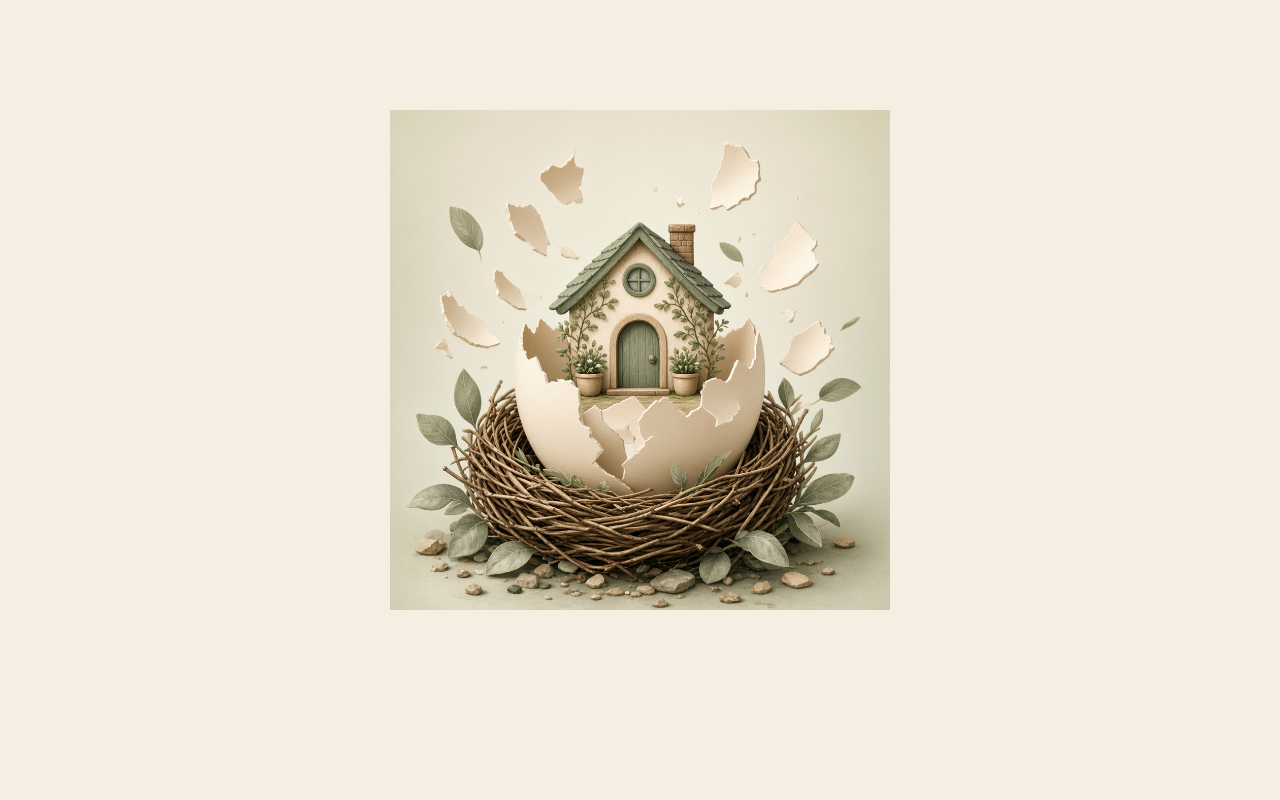
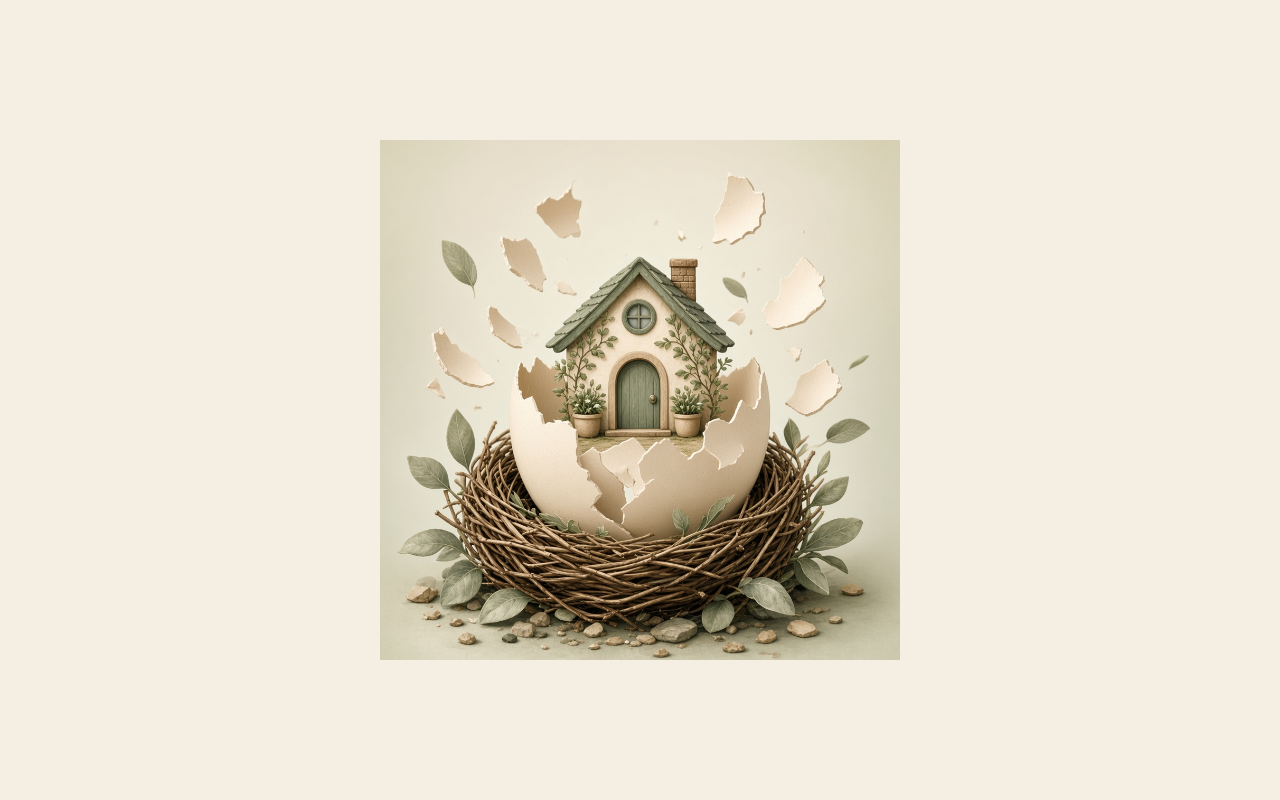
Tighten the hatch to Frank’s ~5s reference clip
Opening still now shows small Nestor / Home, held gently. Add a lid-split
frame before the fragments, then lock the greeting under the serif Nestor
mark. Still silent.

Changed region(s): [[0.2812, 0.125, 0.7188, 0.8438], [0.625, 0.3125, 0.6562, 0.4062]]

diff --git a/src/dashboard/cards/HatchShowpiece.tsx b/src/dashboard/cards/HatchShowpiece.tsx
@@ -7,14 +7,14 @@ import { colors, serif, type } from '../../theme';
 
 const nativeDriver = Platform.OS !== 'web';
 
-/** Motion follows Frank’s ~5s reference; dwell after that is BRANDING_SHOWPIECE_MS. */
+/** ~5s motion, matching Frank’s reference clip. Visual only — no audio. */
 const TIMING = {
-  startIn: 600,
-  startHold: 700,
-  shatterIn: 1200,
-  revealedIn: 1200,
-  markIn: 800,
-  greetingIn: 700,
+  openIn: 500,
+  openHold: 700,
+  crackIn: 900,
+  shatterIn: 1100,
+  revealIn: 1000,
+  lockupIn: 700,
 } as const;
 
 function fade(value: Animated.Value, toValue: number, duration: number) {
@@ -32,22 +32,22 @@ type Props = {
 
 export function HatchShowpiece({ frame = null }: Props) {
   const start = useRef(new Animated.Value(0)).current;
+  const crack = useRef(new Animated.Value(0)).current;
   const shatter = useRef(new Animated.Value(0)).current;
   const revealed = useRef(new Animated.Value(0)).current;
   const zoom = useRef(new Animated.Value(1)).current;
-  const tagline = useRef(new Animated.Value(0)).current;
-  const mark = useRef(new Animated.Value(0)).current;
-  const greeting = useRef(new Animated.Value(0)).current;
+  const openingCopy = useRef(new Animated.Value(0)).current;
+  const lockup = useRef(new Animated.Value(0)).current;
 
   useEffect(() => {
     const freeze = (stage: ShowpieceFrame) => {
       start.setValue(1);
+      crack.setValue(stage === 'hatch' || stage === 'house' ? 1 : 0);
       shatter.setValue(stage === 'hatch' || stage === 'house' ? 1 : 0);
       revealed.setValue(stage === 'house' ? 1 : 0);
       zoom.setValue(stage === 'hatch' ? 1.04 : stage === 'house' ? 1.08 : 1);
-      tagline.setValue(stage === 'egg' ? 1 : 0);
-      mark.setValue(stage === 'house' ? 1 : 0);
-      greeting.setValue(stage === 'house' ? 1 : 0);
+      openingCopy.setValue(stage === 'nest' || stage === 'egg' ? 1 : 0);
+      lockup.setValue(stage === 'house' ? 1 : 0);
     };
 
     if (frame) {
@@ -56,36 +56,40 @@ export function HatchShowpiece({ frame = null }: Props) {
     }
 
     start.setValue(0);
+    crack.setValue(0);
     shatter.setValue(0);
     revealed.setValue(0);
     zoom.setValue(1);
-    tagline.setValue(0);
-    mark.setValue(0);
-    greeting.setValue(0);
+    openingCopy.setValue(0);
+    lockup.setValue(0);
 
     const animation = Animated.sequence([
-      Animated.parallel([fade(start, 1, TIMING.startIn), fade(tagline, 1, TIMING.startIn)]),
-      Animated.delay(TIMING.startHold),
-      Animated.parallel([fade(shatter, 1, TIMING.shatterIn), fade(zoom, 1.04, TIMING.shatterIn)]),
+      Animated.parallel([fade(start, 1, TIMING.openIn), fade(openingCopy, 1, TIMING.openIn)]),
+      Animated.delay(TIMING.openHold),
+      Animated.parallel([fade(crack, 1, TIMING.crackIn), fade(zoom, 1.03, TIMING.crackIn)]),
+      Animated.parallel([fade(shatter, 1, TIMING.shatterIn), fade(zoom, 1.06, TIMING.shatterIn)]),
       Animated.parallel([
-        fade(revealed, 1, TIMING.revealedIn),
-        fade(zoom, 1.08, TIMING.revealedIn),
-        fade(tagline, 0, TIMING.markIn),
-        fade(mark, 1, TIMING.markIn),
+        fade(revealed, 1, TIMING.revealIn),
+        fade(zoom, 1.08, TIMING.revealIn),
+        fade(openingCopy, 0, TIMING.lockupIn),
+        fade(lockup, 1, TIMING.lockupIn),
       ]),
-      fade(greeting, 1, TIMING.greetingIn),
     ]);
 
     animation.start();
     return () => animation.stop();
-  }, [frame, greeting, mark, revealed, shatter, start, tagline, zoom]);
+  }, [crack, frame, lockup, openingCopy, revealed, shatter, start, zoom]);
 
   return (
     <View style={styles.wrap} testID="nestor-card-showpiece" accessibilityLabel={SHOWPIECE_GREETING}>
-      <Animated.Text style={[styles.mark, { opacity: mark }]}>{SHOWPIECE_MARK}</Animated.Text>
+      <Animated.View style={[styles.lockup, { opacity: lockup }]} pointerEvents="none">
+        <Animated.Text style={styles.mark}>{SHOWPIECE_MARK}</Animated.Text>
+        <Animated.Text style={styles.greeting}>{SHOWPIECE_GREETING}</Animated.Text>
+      </Animated.View>
       <View style={styles.stageClip}>
         <Animated.View style={[styles.stage, { transform: [{ scale: zoom }] }]}>
           <Animated.Image source={brandingImages.hatchStart} style={[styles.art, { opacity: start }]} resizeMode="contain" />
+          <Animated.Image source={brandingImages.hatchCrack} style={[styles.art, { opacity: crack }]} resizeMode="contain" />
           <Animated.Image
             source={brandingImages.hatchShatter}
             style={[styles.art, { opacity: shatter }]}
@@ -98,10 +102,10 @@ export function HatchShowpiece({ frame = null }: Props) {
           />
         </Animated.View>
       </View>
-      <View style={styles.footer}>
-        <Animated.Text style={[styles.tagline, { opacity: tagline }]}>{SHOWPIECE_TAGLINE}</Animated.Text>
-        <Animated.Text style={[styles.greeting, { opacity: greeting }]}>{SHOWPIECE_GREETING}</Animated.Text>
-      </View>
+      <Animated.View style={[styles.opening, { opacity: openingCopy }]} pointerEvents="none">
+        <Animated.Text style={styles.smallMark}>{SHOWPIECE_MARK}</Animated.Text>
+        <Animated.Text style={styles.tagline}>{SHOWPIECE_TAGLINE}</Animated.Text>
+      </Animated.View>
     </View>
   );
 }
@@ -114,24 +118,36 @@ const styles = StyleSheet.create({
     backgroundColor: colors.cream,
     paddingHorizontal: 36,
   },
-  mark: {
+  lockup: {
     position: 'absolute',
-    top: 18,
-    left: 0,
-    right: 0,
+    top: 16,
+    left: 24,
+    right: 24,
     zIndex: 2,
-    textAlign: 'center',
+    alignItems: 'center',
+  },
+  mark: {
     color: colors.bark,
     fontSize: type.serifMark,
     fontWeight: '700',
     letterSpacing: 0.4,
+    textAlign: 'center',
+    ...serif,
+  },
+  greeting: {
+    color: colors.bark,
+    fontSize: type.greeting,
+    fontWeight: '400',
+    letterSpacing: 0.2,
+    textAlign: 'center',
+    marginTop: 4,
     ...serif,
   },
   stageClip: {
-    width: 500,
-    height: 500,
-    maxWidth: '52%',
-    maxHeight: '64%',
+    width: 520,
+    height: 520,
+    maxWidth: '54%',
+    maxHeight: '66%',
     overflow: 'hidden',
   },
   stage: {
@@ -147,29 +163,27 @@ const styles = StyleSheet.create({
     width: '100%',
     height: '100%',
   },
-  footer: {
-    height: 72,
-    width: '100%',
-    maxWidth: 760,
+  opening: {
+    position: 'absolute',
+    bottom: 22,
+    left: 24,
+    right: 24,
     alignItems: 'center',
-    justifyContent: 'center',
-    marginTop: 8,
   },
-  tagline: {
-    position: 'absolute',
-    color: colors.mutedNest,
-    fontSize: 20,
-    fontWeight: '600',
-    letterSpacing: 0.3,
-    textAlign: 'center',
-  },
-  greeting: {
-    position: 'absolute',
+  smallMark: {
     color: colors.bark,
-    fontSize: type.greeting,
-    fontWeight: '400',
+    fontSize: 28,
+    fontWeight: '700',
     letterSpacing: 0.3,
     textAlign: 'center',
     ...serif,
+  },
+  tagline: {
+    color: colors.mutedNest,
+    fontSize: 18,
+    fontWeight: '600',
+    letterSpacing: 0.3,
+    textAlign: 'center',
+    marginTop: 2,
   },
 });

diff --git a/src/preview.ts b/src/preview.ts
@@ -9,10 +9,10 @@ import { BRANDING_SHOWPIECE_EVERY } from './config';
  *   ?start=showpiece         jump to branding and force the hatch showpiece
  *   ?showpieceEvery=1        hatch on every branding slot (also ?showpiece=1)
  *   ?showpieceFrame=nest|egg|hatch|house   freeze one showpiece keyframe
- *     nest  = official splash (cracked egg + cottage)
- *     egg   = splash + “Home, held gently”
+ *     nest  = official splash + small Nestor / Home, held gently
+ *     egg   = same opening still
  *     hatch = shell fragments + zoom
- *     house = revealed cottage + serif Nestor + greeting
+ *     house = revealed cottage + serif Nestor lockup + greeting
  */
 
 export type ShowpieceFrame = 'nest' | 'egg' | 'hatch' | 'house';

diff --git a/src/branding/assets.ts b/src/branding/assets.ts
@@ -1,10 +1,11 @@
 /**
- * Official household Nestor PWA art, plus hatch mid/end stills matched to the splash.
+ * Official household Nestor PWA art, plus hatch mid stills matched to the splash.
  * Pointers: splash.png / splash.jpg / icon-512.png / icon-source.png from shootngo/Nestor.
  */
 export const brandingImages = {
   houseInNest: require('../../assets/branding/house-in-nest.png'),
   hatchStart: require('../../assets/branding/hatch-start.png'),
+  hatchCrack: require('../../assets/branding/hatch-crack.png'),
   hatchShatter: require('../../assets/branding/hatch-shatter.png'),
   hatchRevealed: require('../../assets/branding/hatch-revealed.png'),
 } as const;

diff --git a/docs/TEST_NOTES.md b/docs/TEST_NOTES.md
@@ -34,7 +34,7 @@ Web preview overrides (not used on the APK):
 | Identity | Corner wordmark **Nestor** on ordinary cards. No model name anywhere |
 | Loop | Weather → branding still → news/history → branding still → … → verse |
 | Simple branding | Official PWA house-in-the-nest icon + a short line (`Nestor here`, `Nestor ready for business`, …). Tasteful, silent |
-| Showpiece | Every 10th branding slot, cream splash look: cracked egg + cottage → shell fragments float out + zoom → large serif **Nestor** → **Hi, I'm Nestor, your personal assistant**. Brief **Home, held gently** at the start. No TTS, no music |
+| Showpiece | Every 10th branding slot, cream splash look, ~5s, silent: cracked egg + cottage with small **Nestor / Home, held gently** → lid splits → fragments float out + zoom → large serif **Nestor** with **Hi, I'm Nestor, your personal assistant** under the mark. No TTS, no music |
 | Wordmark | Hidden during the full-screen showpiece (serif mark is part of the hatch) |
 | Dwell | ~10s ordinary cards; ~10s showpiece; tap advances early; soft fade |
 | Errors | Calm “Couldn’t load …” card; loop continues; app does not crash |

diff --git a/README.md b/README.md
@@ -60,10 +60,10 @@ Future work is listed as stubs only in [PHASES.md](./PHASES.md).
 Landscape web preview (fridge install path is still the Android APK):
 
 - [Simple branding — house in the nest](./docs/phase-3-branding.png)
-- [Hatch — official splash (cracked egg)](./docs/phase-3-hatch-nest.png)
-- [Hatch — Home, held gently](./docs/phase-3-hatch-egg.png)
+- [Hatch — cracked egg + Nestor / Home, held gently](./docs/phase-3-hatch-nest.png)
+- [Hatch — opening still](./docs/phase-3-hatch-egg.png)
 - [Hatch — shell fragments](./docs/phase-3-hatch-open.png)
-- [Hatch — serif Nestor + greeting](./docs/phase-3-hatch-house.png)
+- [Hatch — serif Nestor lockup + greeting](./docs/phase-3-hatch-house.png)
 
 Phase 2 cards (still in the loop): [weather](./docs/phase-2-weather.png), [Fox News](./docs/phase-2-news.png), [history](./docs/phase-2-history.png), [verse](./docs/phase-2-verse.png).
 
